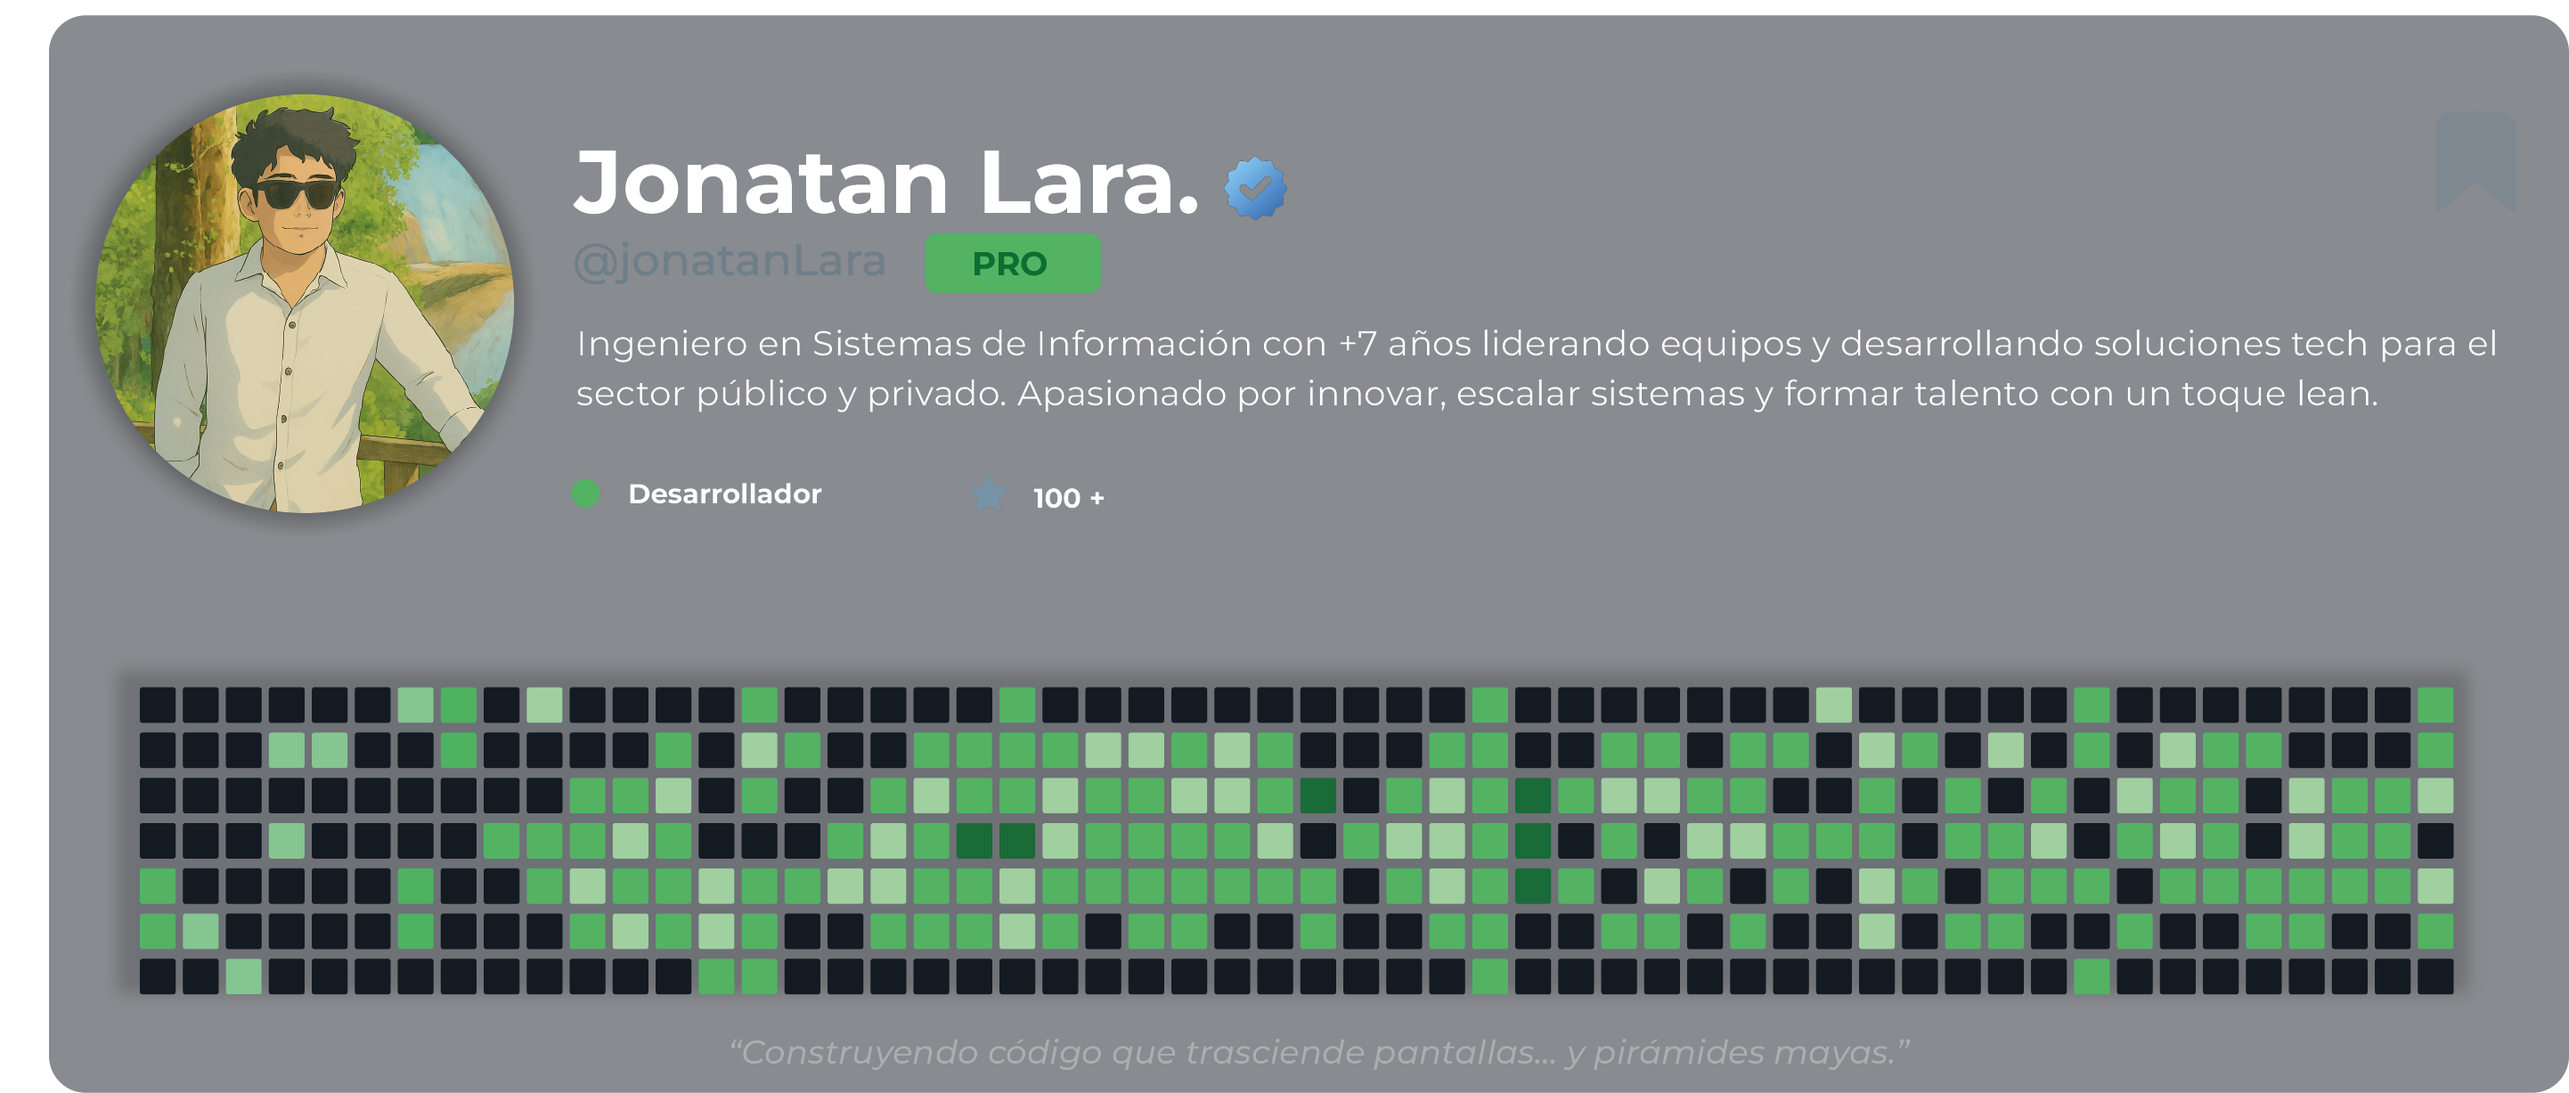
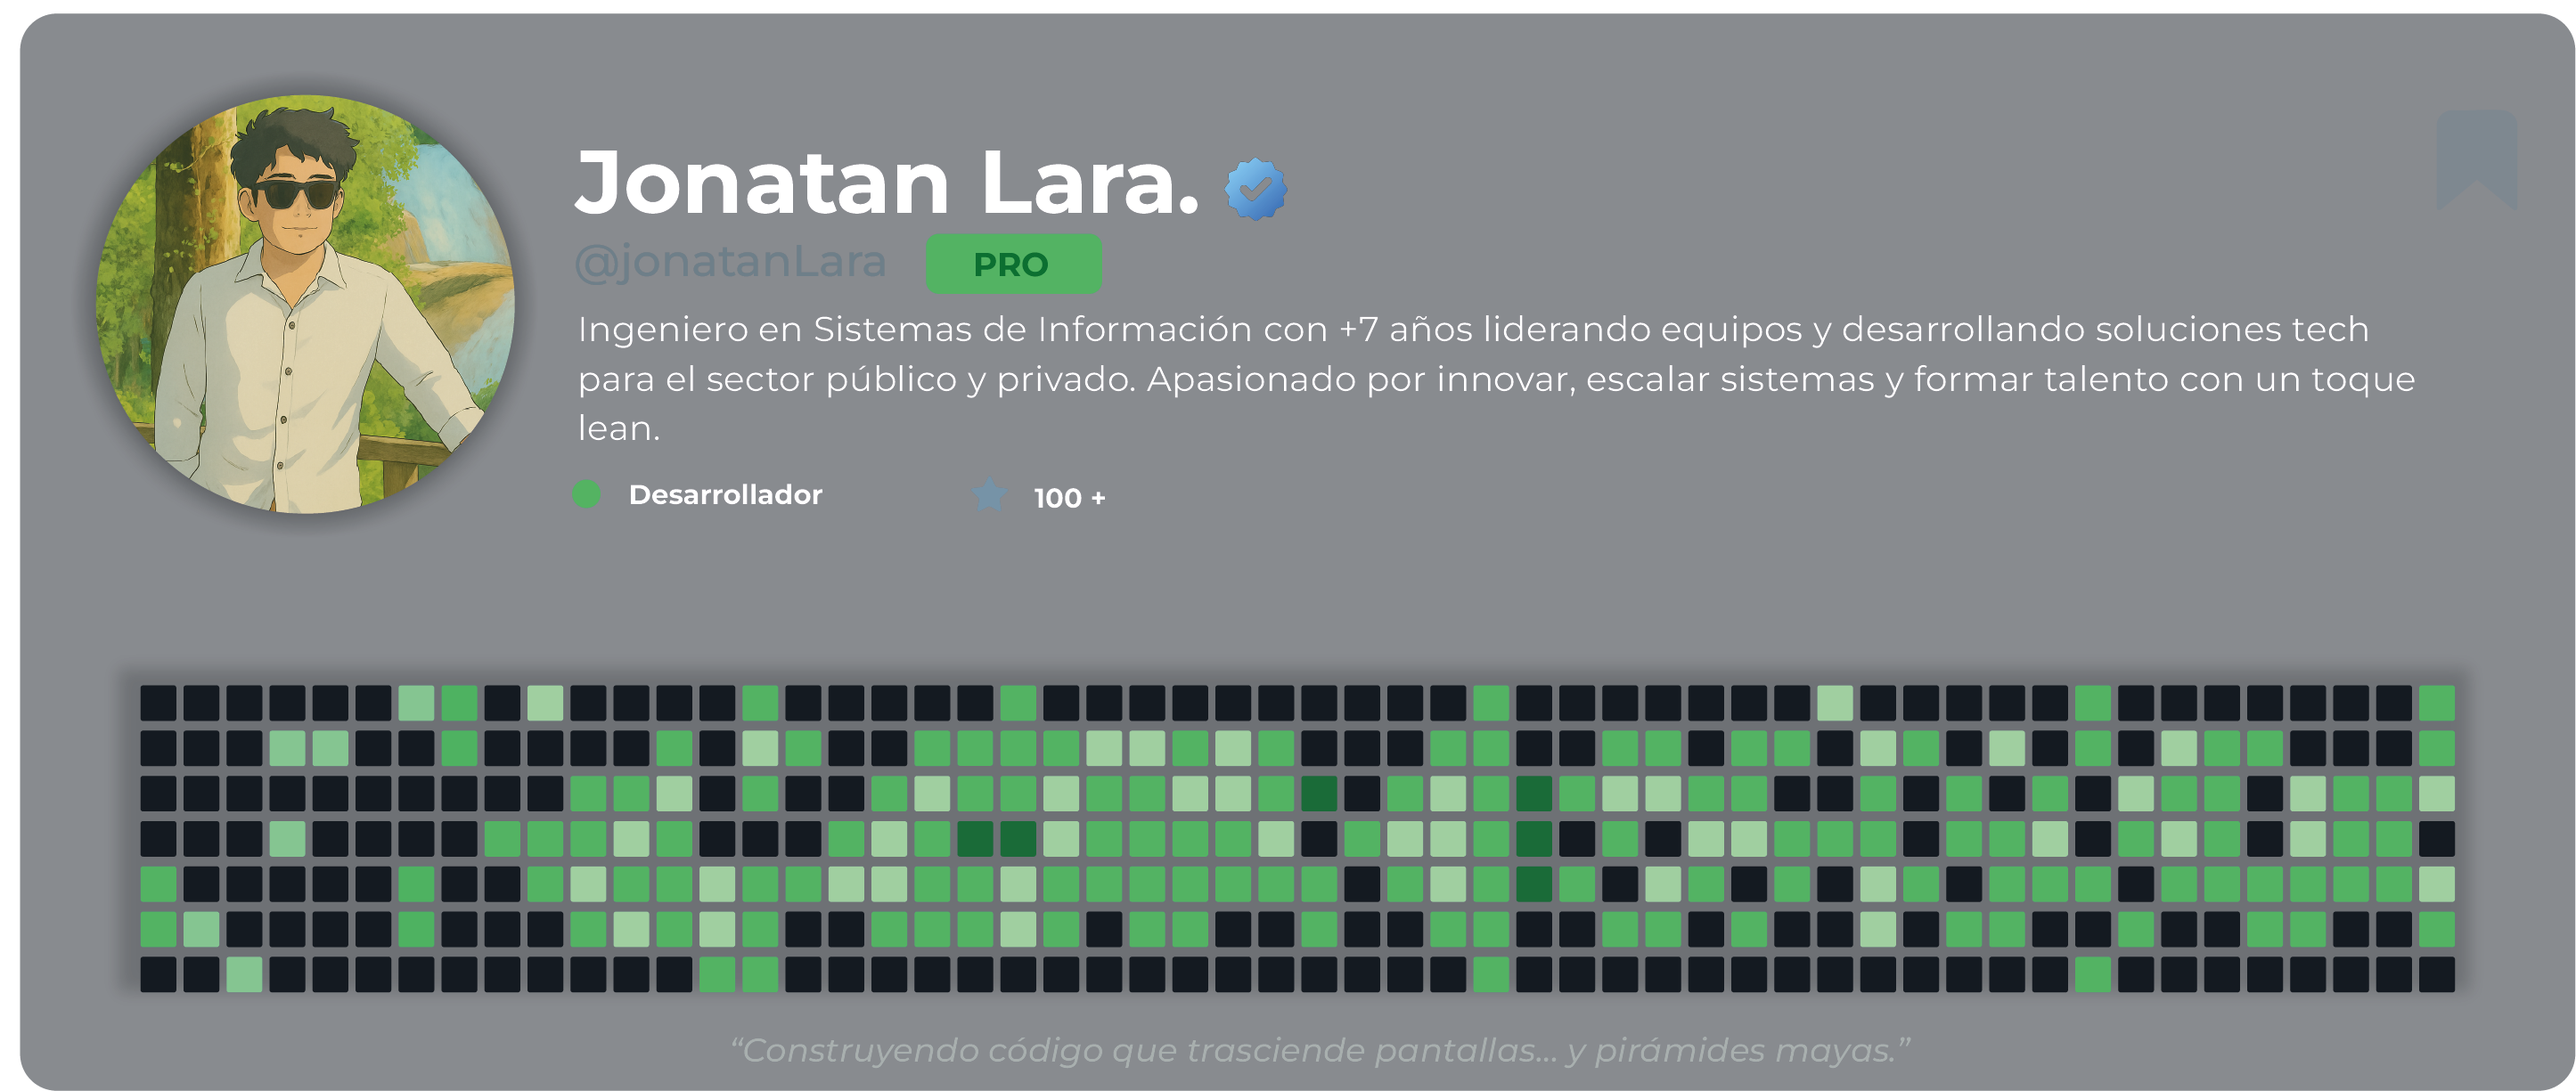
Pruebas

diff --git a/README.md b/README.md
@@ -1,6 +1,10 @@
-# ¡Hola, soy Jonatan Lara! 👨💻🎮  
-
-**Ingeniero en Sistemas de Información** con **+7 años** liderando equipos y desarrollando soluciones tech para el sector público y privado. Apasionado por **innovar, escalar sistemas** y **formar talento** con un toque *lean*.  
+<p >
+  <img 
+    src="https://github.com/jonatanLara/jonatanLara/blob/main/src/header.png?raw=true" 
+    alt="header-jonatan"
+    width="100%"
+  />
+</p>
 
 ```javascript
 // Un poco más sobre mí
